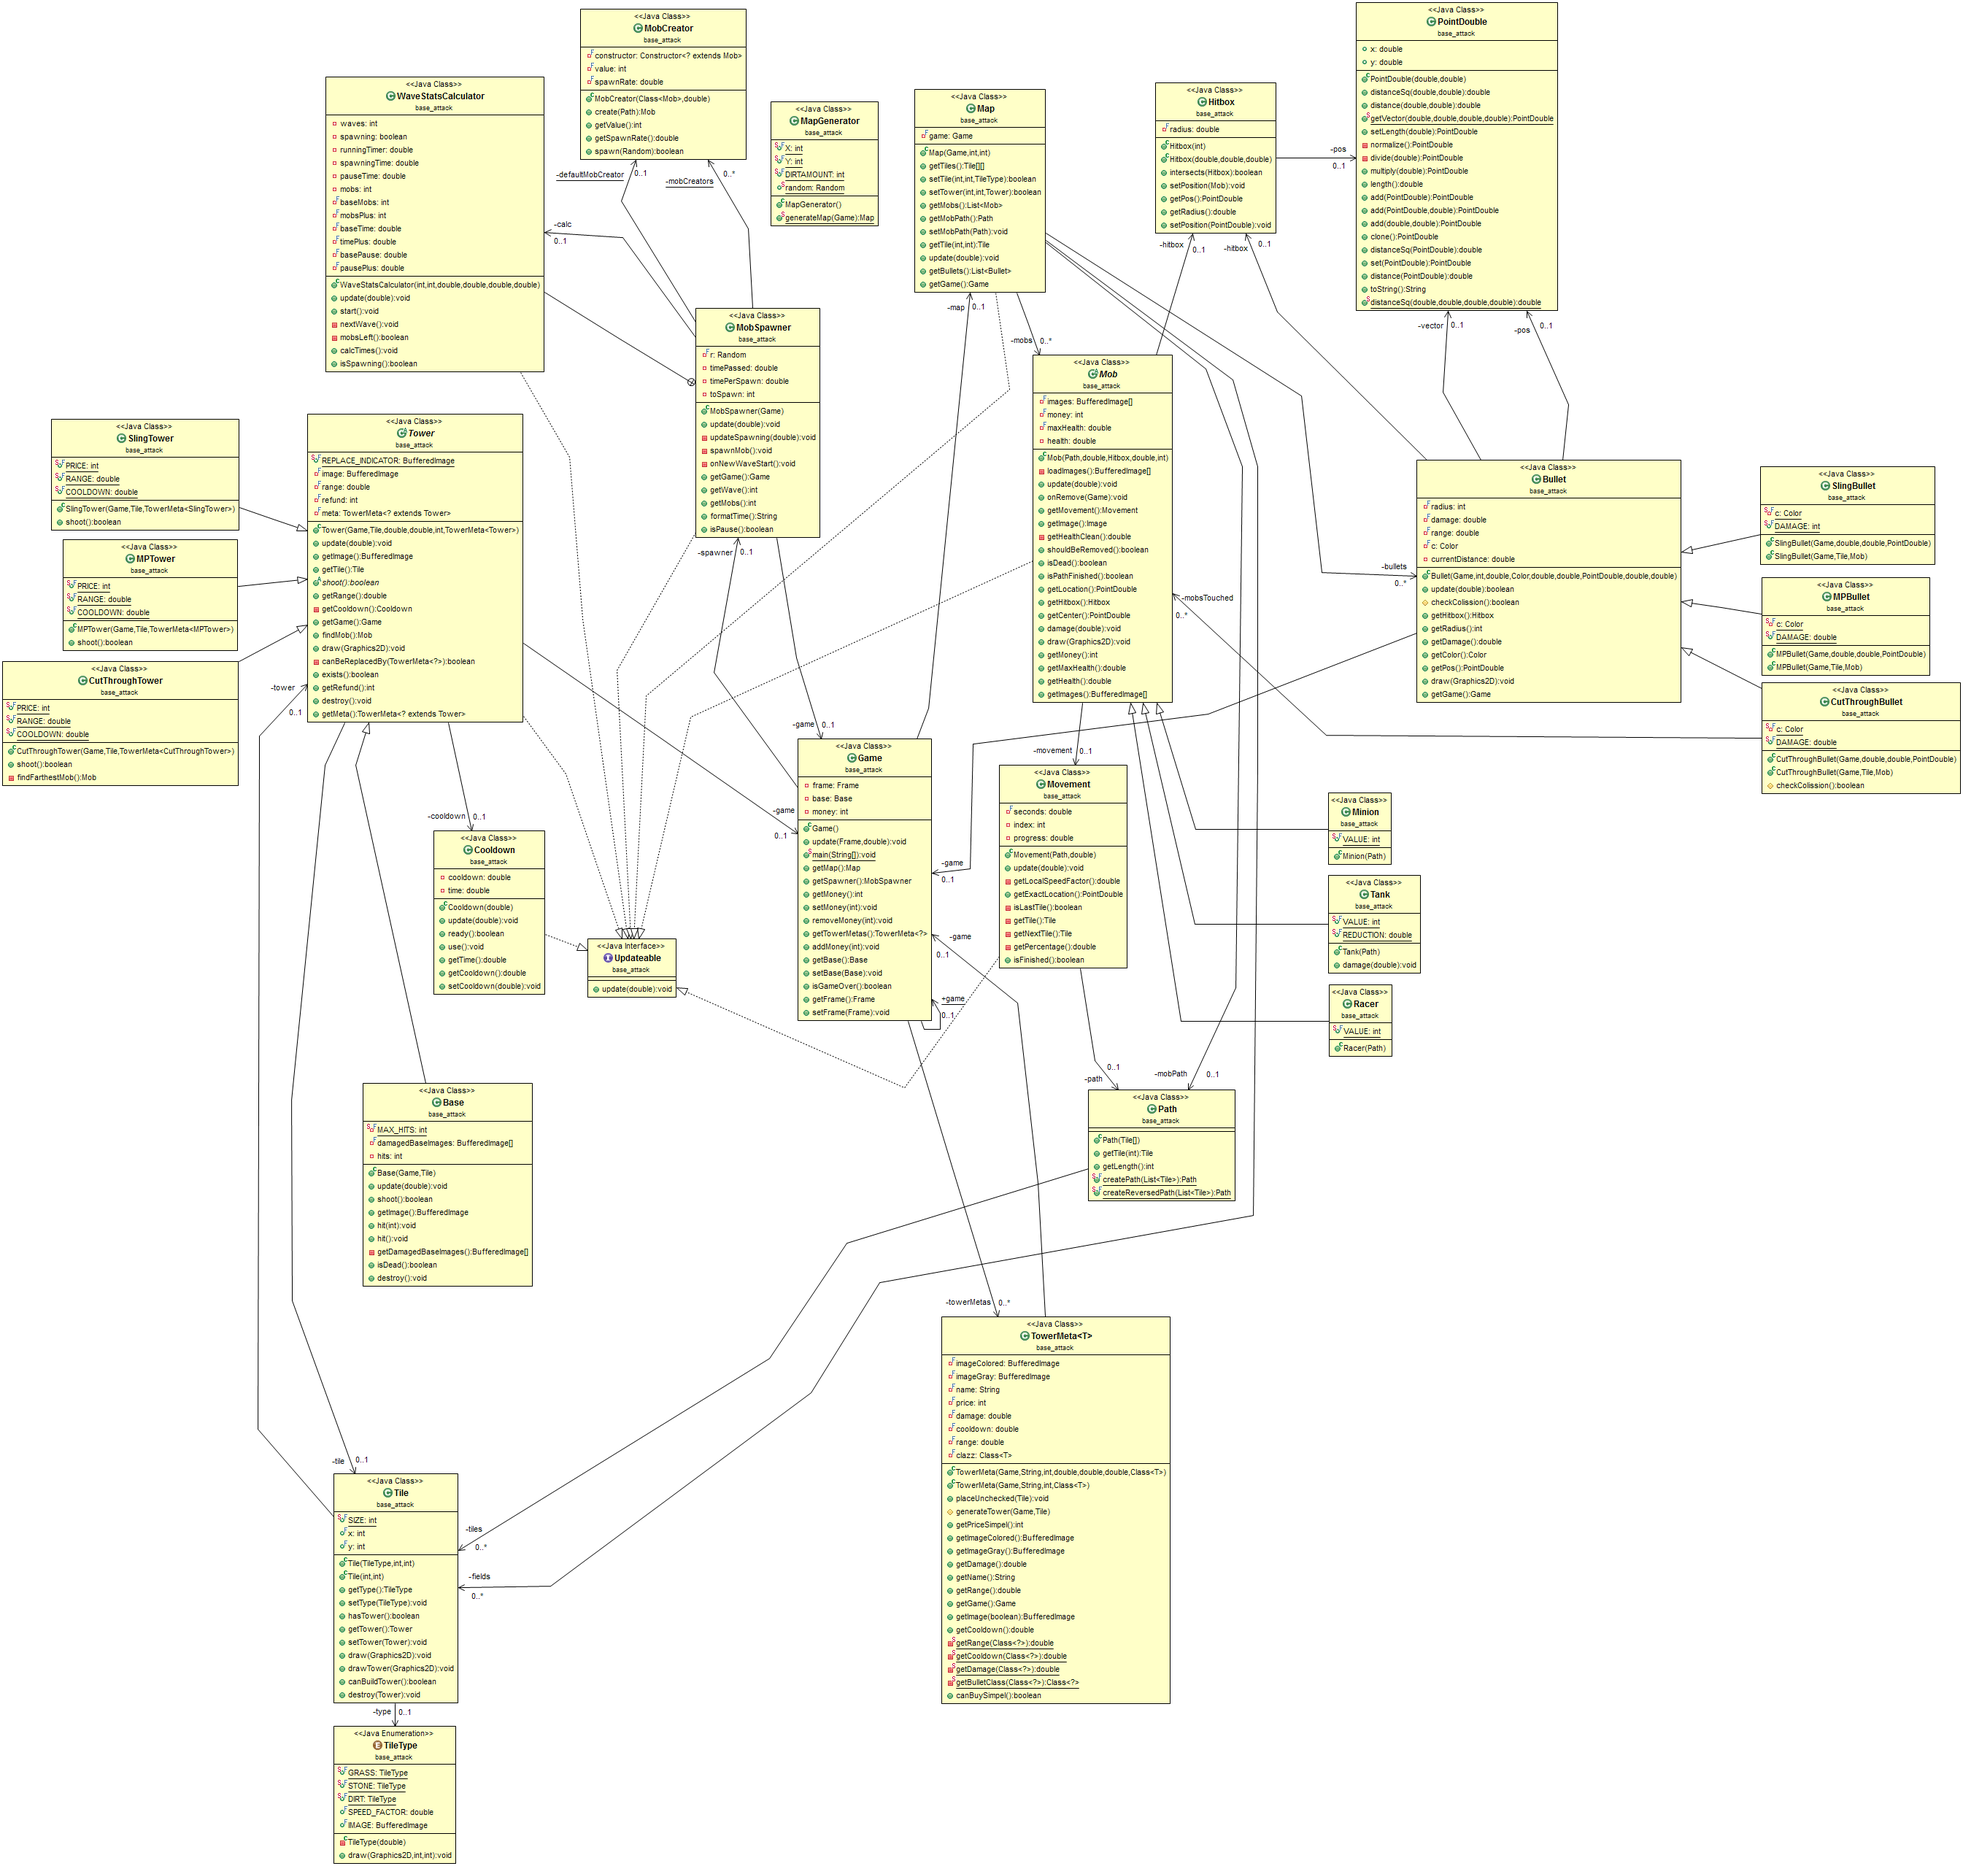
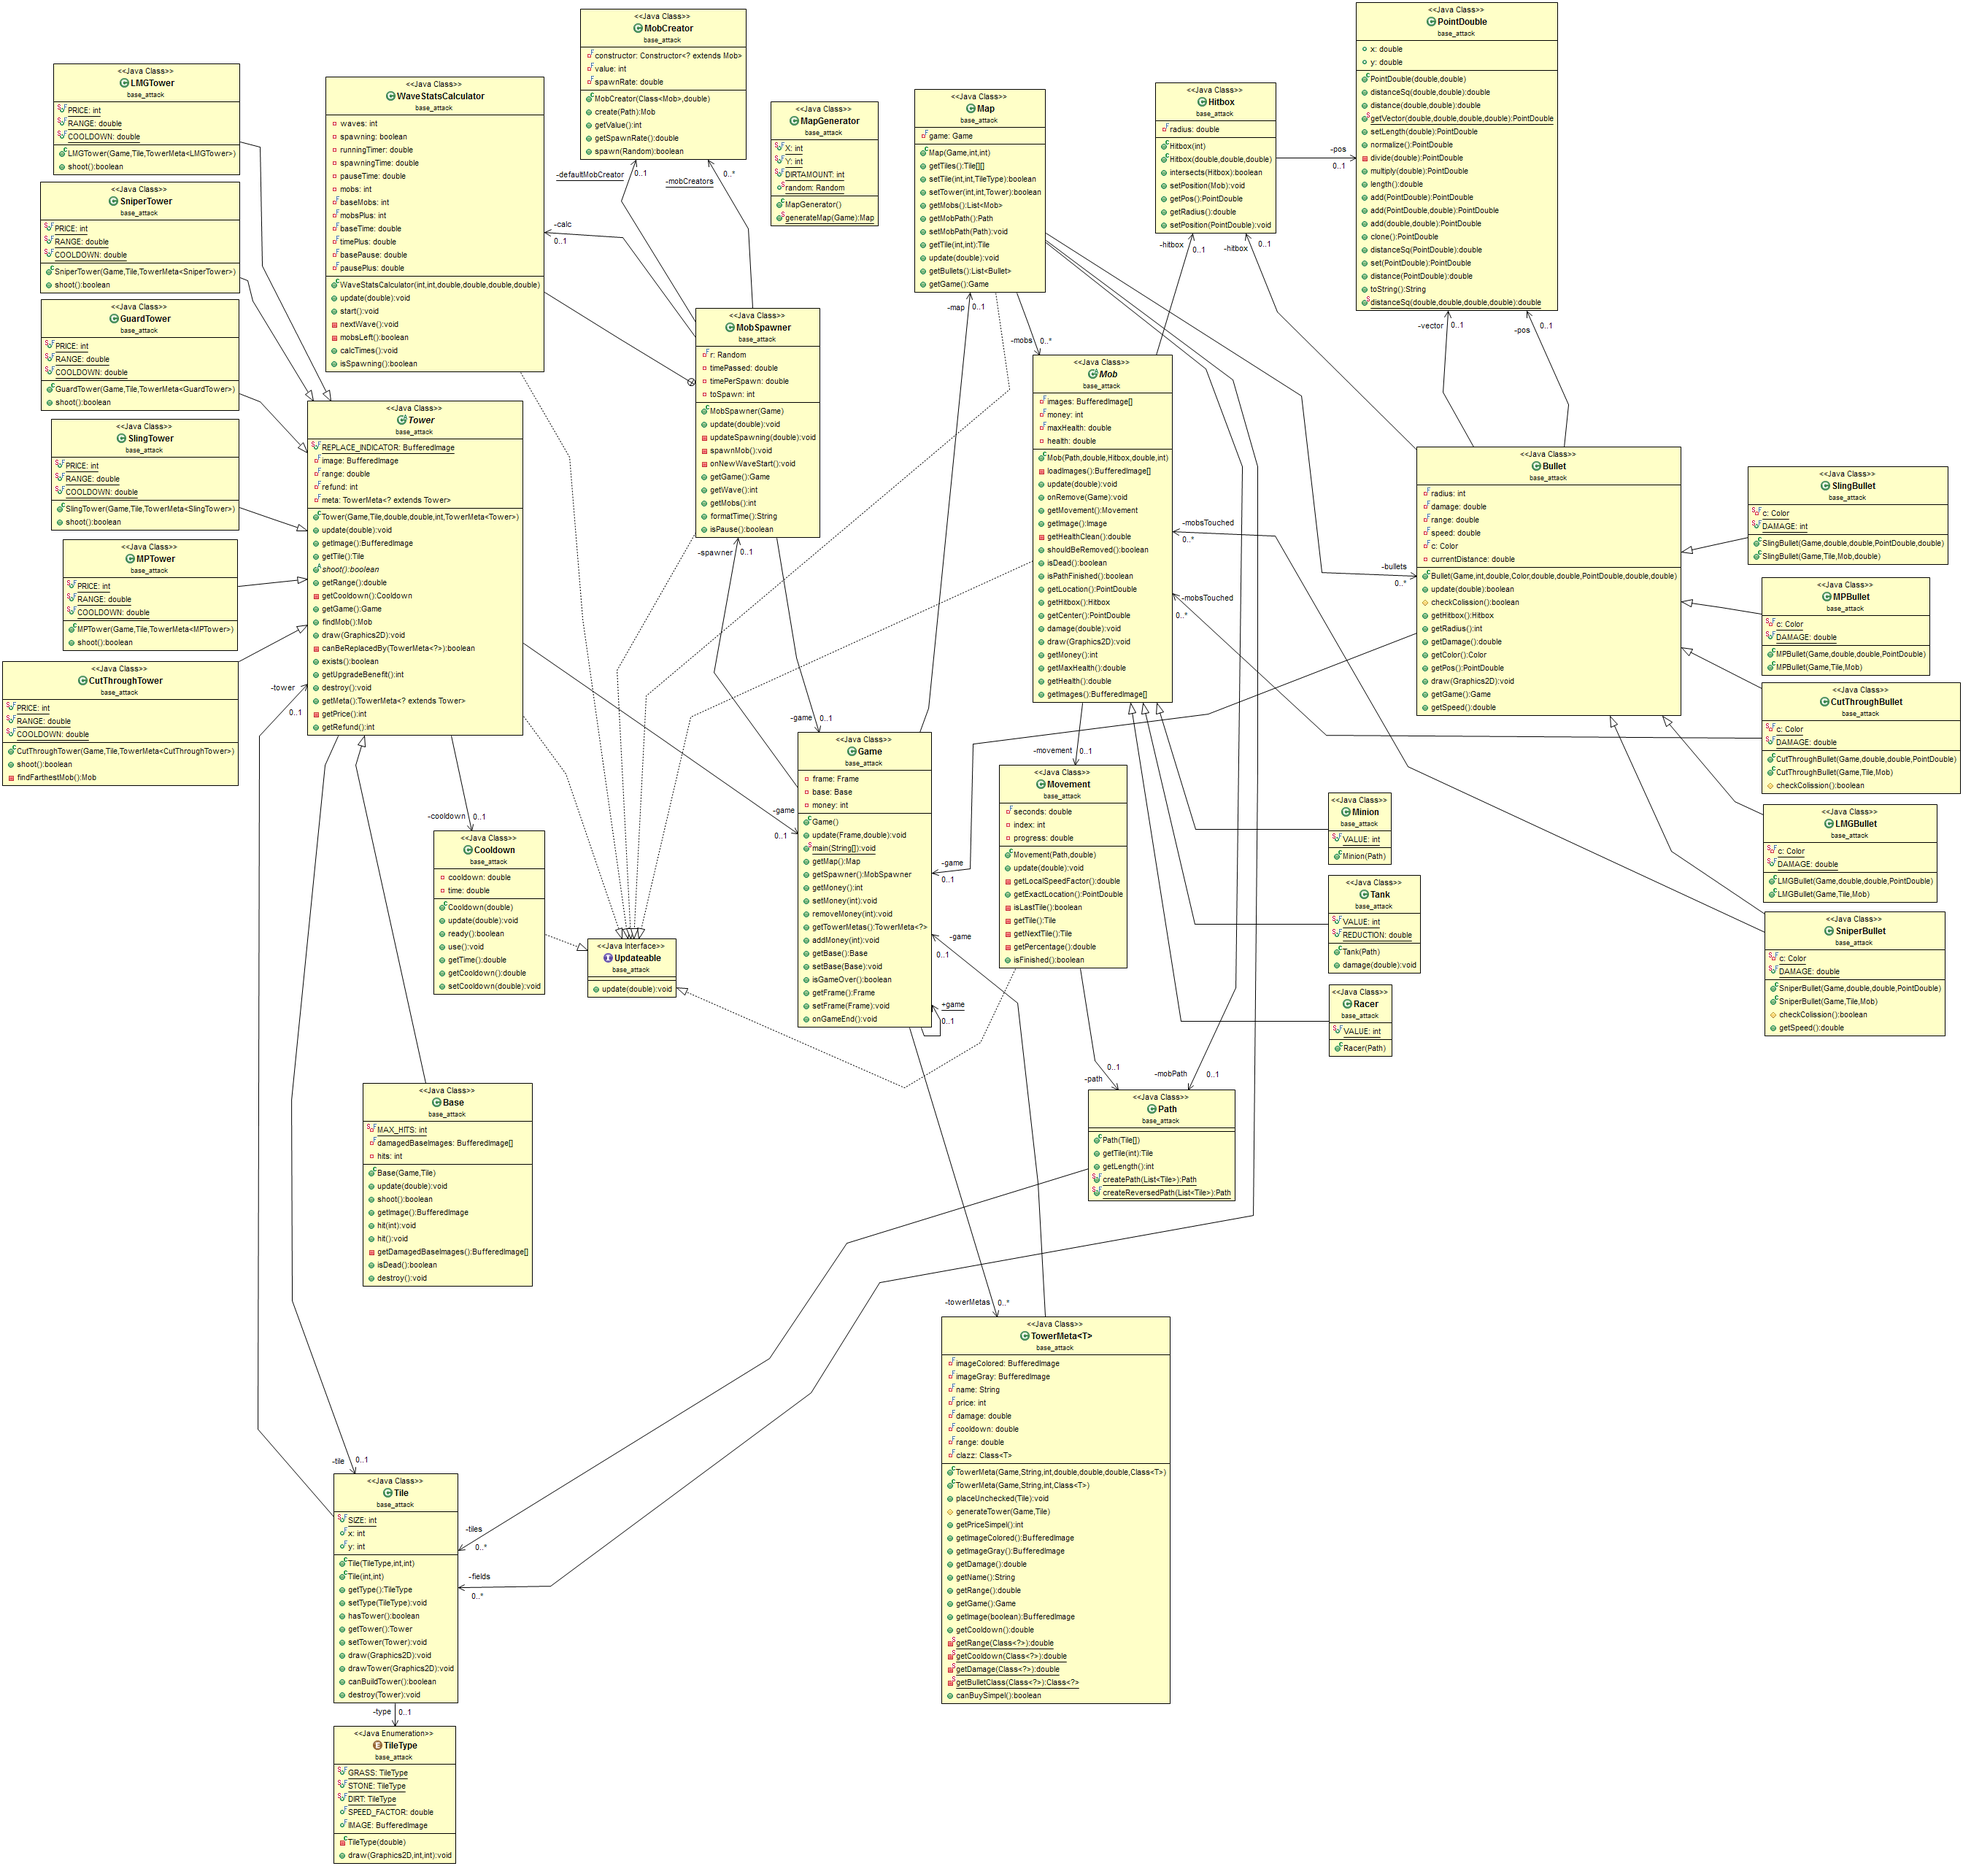
Content Creation of Doom + Balancing + UML update

diff --git a/src/base_attack/SniperBullet.java b/src/base_attack/SniperBullet.java
@@ -1,0 +1,53 @@
+package base_attack;
+
+import java.awt.Color;
+import java.util.LinkedList;
+
+public class SniperBullet extends Bullet {
+	
+	private static final Color c = Color.BLUE;
+	public static final double DAMAGE = 3;
+	
+	private final LinkedList<Mob> mobsTouched = new LinkedList<>();
+
+	public SniperBullet(Game g, double x, double y, PointDouble target) {
+		super(g, 2, DAMAGE, c, x, y, target, 8, SniperTower.RANGE);
+	}
+
+	public SniperBullet(Game g, Tile tile, Mob target) {
+		this(g, tile.x + 0.5, tile.y + 0.5, target.getCenter());
+	}
+	
+	/**
+	 * @return Whether to remove the Bullet
+	 */
+	protected boolean checkColission() {
+		
+		for(Mob m: getGame().getMap().getMobs()) {
+			
+			if(mobsTouched.contains(m))
+				continue;
+			
+			if(getHitbox().intersects(m.getHitbox())) {
+				
+				m.damage(getDamage());
+				
+				mobsTouched.add(m);
+				
+				if(mobsTouched.size() >= 2)
+					return true;
+				
+			}
+			
+		}
+		
+		return false;
+		
+	}
+	
+	@Override
+	public double getSpeed() {
+		return super.getSpeed() * Math.pow(0.8, mobsTouched.size());
+	}
+
+}

diff --git a/src/base_attack/Bullet.java b/src/base_attack/Bullet.java
@@ -8,7 +8,7 @@ public class Bullet {
 	private final Game game;
 	
 	private final int radius;
-	private final double damage, range;
+	private final double damage, range, speed;
 	private final Color c;
 
 	private final PointDouble pos = new PointDouble(0, 0);
@@ -24,6 +24,7 @@ public class Bullet {
 		
 		this.radius = radius;
 		this.damage = damage;
+		this.speed = speed;
 		this.c = c;
 		
 		pos.x = x;
@@ -31,7 +32,7 @@ public class Bullet {
 		
 		this.hitbox = new Hitbox(x, y, getRadius());
 		
-		this.vector = PointDouble.getVector(x, y, target.x, target.y).setLength(speed);
+		this.vector = PointDouble.getVector(x, y, target.x, target.y).normalize();
 		this.range = range;
 	}
 	
@@ -42,7 +43,7 @@ public class Bullet {
 		
 		//UPDATE POSITION
 		
-		final PointDouble delta = vector.clone().multiply(t);
+		final PointDouble delta = vector.clone().multiply(t*getSpeed());
 		
 		getPos().add(delta);
 		
@@ -112,6 +113,10 @@ public class Bullet {
 	
 	public Game getGame() {
 		return game;
+	}
+	
+	public double getSpeed() {
+		return speed;
 	}
 
 }

diff --git a/src/base_attack/Tower.java b/src/base_attack/Tower.java
@@ -108,7 +108,7 @@ public abstract class Tower implements Updateable {
 		if(getMeta() == null || meta == null)
 			return false;
 		
-		return getMeta().getPriceSimpel() < meta.getPriceSimpel() && ((meta.getPriceSimpel() - getRefund()) <= getGame().getMoney());
+		return getMeta().getPriceSimpel() < meta.getPriceSimpel() && ((meta.getPriceSimpel() - getUpgradeBenefit()) <= getGame().getMoney());
 		
 	}
 
@@ -116,10 +116,10 @@ public abstract class Tower implements Updateable {
 		return getTile().getTower() == this;
 	}
 
-	public int getRefund() {
-		return refund;
+	public int getUpgradeBenefit() {
+		return getPrice();
 	}
-
+	
 	public void destroy() {
 		
 		getTile().destroy(this);
@@ -129,6 +129,14 @@ public abstract class Tower implements Updateable {
 
 	public TowerMeta<? extends Tower> getMeta() {
 		return meta;
+	}
+	
+	private int getPrice() {
+		return getMeta().getPriceSimpel();
+	}
+	
+	public int getRefund() {
+		return refund;
 	}
 	
 }

diff --git a/src/base_attack/ui/TowerMetaDisplay.java b/src/base_attack/ui/TowerMetaDisplay.java
@@ -7,6 +7,7 @@ import java.awt.Point;
 import java.awt.Rectangle;
 import java.awt.event.KeyEvent;
 import java.awt.image.BufferedImage;
+import java.util.Locale;
 
 import base_attack.MapGenerator;
 import base_attack.Tile;
@@ -97,7 +98,7 @@ public class TowerMetaDisplay extends Component implements Spot {
 			
 			Display.drawInCenter(g, DAMAGE, LINE_HEIGHT);
 			
-			drawString(g, (meta.getDamage()/meta.getCooldown())*10, LINE_HEIGHT + GAP/2, STRING_HEIGHT);
+			drawString(g, String.format(Locale.ENGLISH, "%.1f", (meta.getDamage()/meta.getCooldown())*10), LINE_HEIGHT + GAP/2, STRING_HEIGHT);
 			
 			g.translate(WIDTH_SPACE + GAP, 0); //TRANSLATE
 			
@@ -303,7 +304,7 @@ public class TowerMetaDisplay extends Component implements Spot {
 		if(t == null)
 			return meta.getPriceSimpel();
 		else
-			return meta.getPriceSimpel() - t.getRefund();
+			return meta.getPriceSimpel() - t.getUpgradeBenefit();
 		
 	}
 

diff --git a/src/base_attack/Tank.java b/src/base_attack/Tank.java
@@ -2,17 +2,17 @@ package base_attack;
 
 /**
  * 
- * A 'Tank' reduces the damage from each hit by a constant amount (max. 50% damage reduction)
+ * A 'Tank' reduces the damage from each hit by a constant amount (capped at a certain percentage)
  *
  */
 public class Tank extends Mob {
 
 	public static final int VALUE = 3;
 	
-	public static final double REDUCTION = 0.2;
+	public static final double REDUCTION = 0.25;
 	
 	public Tank(Path path) {
-		super(path, 2, new Hitbox(20), 8, VALUE);
+		super(path, 2, new Hitbox(20), 7, VALUE);
 	}
 	
 	@Override
@@ -24,7 +24,7 @@ public class Tank extends Mob {
 		if(damage < 0)
 			throw new IllegalArgumentException();
 		
-		final double maxReduction = damage * 0.5;
+		final double maxReduction = damage * 0.8;
 		
 		final double reduction = REDUCTION > maxReduction ? maxReduction : REDUCTION;
 		

diff --git a/src/base_attack/Game.java b/src/base_attack/Game.java
@@ -12,13 +12,16 @@ public class Game {
 	
 	private final TowerMeta<?>[] towerMetas = new TowerMeta<?>[]{
 			new TowerMeta<SlingTower>(this, "Sling Tower", SlingTower.PRICE, SlingTower.class),
+			new TowerMeta<GuardTower>(this, "Guard Tower", GuardTower.PRICE, SlingBullet.DAMAGE, GuardTower.COOLDOWN, GuardTower.RANGE, GuardTower.class),
+			new TowerMeta<LMGTower>(this, "LMG Tower", LMGTower.PRICE, LMGTower.class),
 			new TowerMeta<MPTower>(this, "MP Tower", MPTower.PRICE, MPTower.class),
 			new TowerMeta<CutThroughTower>(this, "Cut-Through Tower", CutThroughTower.PRICE, CutThroughTower.class),
+			new TowerMeta<SniperTower>(this, "Sniper Tower", SniperTower.PRICE, SniperTower.class),
 	};
 	
 	private Frame frame;
 	private Base base;
-	private int money = 30;
+	private int money = 24;
 	
 	public Game() {
 		

diff --git a/src/base_attack/SlingBullet.java b/src/base_attack/SlingBullet.java
@@ -7,12 +7,12 @@ public class SlingBullet extends Bullet {
 	private static final Color c = Color.DARK_GRAY;
 	public static final int DAMAGE = 1;
 
-	public SlingBullet(Game g, double x, double y, PointDouble target) {
-		super(g, 4, DAMAGE, c, x, y, target, 3, SlingTower.RANGE);
+	public SlingBullet(Game g, double x, double y, PointDouble target, double range) {
+		super(g, 4, DAMAGE, c, x, y, target, 3, range);
 	}
 
-	public SlingBullet(Game g, Tile tile, Mob target) {
-		this(g, tile.x + 0.5, tile.y + 0.5, target.getCenter());
+	public SlingBullet(Game g, Tile tile, Mob target, double range) {
+		this(g, tile.x + 0.5, tile.y + 0.5, target.getCenter(), range);
 	}
 
 }

diff --git a/src/base_attack/SniperTower.java b/src/base_attack/SniperTower.java
@@ -1,0 +1,26 @@
+package base_attack;
+
+public class SniperTower extends Tower {
+	
+	public static final int PRICE = 45;
+	public static final double RANGE = 6.5, COOLDOWN = 3;
+
+	public SniperTower(Game game, Tile tile, TowerMeta<? extends SniperTower> meta) {
+		super(game, tile, COOLDOWN, RANGE, PRICE/2, meta);
+	}
+
+	@Override
+	public boolean shoot() {
+		
+		final Mob target = findMob();
+		
+		if(target == null)
+			return false;
+		
+		getGame().getMap().getBullets().add(new SniperBullet(getGame(), getTile(), target));
+		
+		return true;
+		
+	}
+
+}

diff --git a/src/base_attack/LMGTower.java b/src/base_attack/LMGTower.java
@@ -1,0 +1,25 @@
+package base_attack;
+
+public class LMGTower extends Tower {
+	
+	public static final int PRICE = 25;
+	public static final double RANGE = 2.5, COOLDOWN = 0.75;
+
+	public LMGTower(Game game, Tile tile, TowerMeta<? extends LMGTower> meta) {
+		super(game, tile, COOLDOWN, RANGE, PRICE/2, meta);
+	}
+
+	@Override
+	public boolean shoot() {
+		
+		final Mob target = findMob();
+		
+		if(target == null)
+			return false;
+		
+		getGame().getMap().getBullets().add(new MPBullet(getGame(), getTile(), target));
+		
+		return true;
+		
+	}
+}

diff --git a/src/base_attack/GuardTower.java b/src/base_attack/GuardTower.java
@@ -1,11 +1,11 @@
 package base_attack;
 
-public class SlingTower extends Tower {
+public class GuardTower extends Tower {
 	
-	public static final int PRICE = 8;
-	public static final double RANGE = 4.5, COOLDOWN = 4.5;
+	public static final int PRICE = 25;
+	public static final double RANGE = 5.5, COOLDOWN = 2;
 
-	public SlingTower(Game game, Tile tile, TowerMeta<? extends SlingTower> meta) {
+	public GuardTower(Game game, Tile tile, TowerMeta<? extends GuardTower> meta) {
 		super(game, tile, COOLDOWN, RANGE, PRICE/2, meta);
 	}
 

diff --git a/src/base_attack/ui/PlacedTowerDisplay.java b/src/base_attack/ui/PlacedTowerDisplay.java
@@ -180,7 +180,7 @@ public class PlacedTowerDisplay extends Component implements Spot {
 		if(getTower() == null || meta == null || getTower().getMeta() == null)
 			return false;
 		
-		return getTower().getMeta().getPriceSimpel() < meta.getPriceSimpel() && (meta.getPriceSimpel() - tower.getRefund()) <= f.getGame().getMoney();
+		return getTower().getMeta().getPriceSimpel() < meta.getPriceSimpel() && (meta.getPriceSimpel() - tower.getUpgradeBenefit()) <= f.getGame().getMoney();
 		
 	}
 

diff --git a/src/base_attack/LMGBullet.java b/src/base_attack/LMGBullet.java
@@ -1,0 +1,17 @@
+package base_attack;
+
+import java.awt.Color;
+
+public class LMGBullet extends Bullet {
+	
+	private static final Color c = Color.RED.darker();
+	public static final double DAMAGE = 0.4;
+
+	public LMGBullet(Game g, double x, double y, PointDouble target) {
+		super(g, 2, DAMAGE, c, x, y, target, 5.5, LMGTower.RANGE);
+	}
+
+	public LMGBullet(Game g, Tile tile, Mob target) {
+		this(g, tile.x + 0.5, tile.y + 0.5, target.getCenter());
+	}
+}
